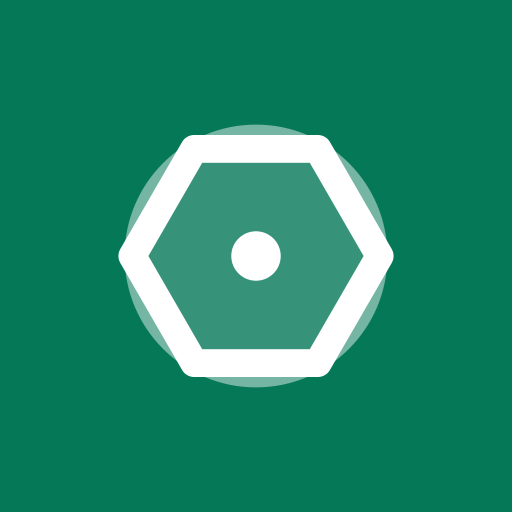
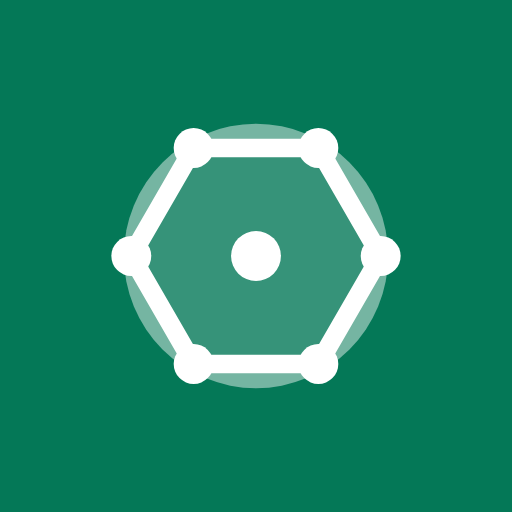
fix: 양심노트 아이콘의 육각형이 원 밖으로 삐져나와 보이던 것을 고침 (#35)
꼭짓점에 점을 찍고 선을 가늘게 해, 원 위의 여섯 점을 이은 도표
모양으로 바꿨다. 탭 아이콘, 헤더 아이콘, 홈 화면 아이콘에 같이
적용했다.

Changed region(s): [[0.2188, 0.25, 0.7812, 0.75]]

diff --git a/components/conscience-icon.tsx b/components/conscience-icon.tsx
@@ -3,8 +3,18 @@ import type { SVGProps } from "react";
 /** 24×24 좌표에서 원(중심 12,12 반지름 10)에 꼭짓점이 닿는, 가로로 누운 육각형. */
 export const CONSCIENCE_HEXAGON_PATH = "M22 12 17 20.66H7L2 12l5-8.66h10z";
 
-// 양심노트의 아이콘. 여섯 덕목이 모두 자명일 때의 도표(원 안에 꽉 찬 육각형)에
-// 가운데 점을 찍은 모양이다.
+/** 위 육각형의 꼭짓점. 도표에서 자명을 고른 점처럼 원 위에 놓인다. */
+export const CONSCIENCE_HEXAGON_VERTICES: [number, number][] = [
+  [22, 12],
+  [17, 20.66],
+  [7, 20.66],
+  [2, 12],
+  [7, 3.34],
+  [17, 3.34],
+];
+
+// 양심노트의 아이콘. 여섯 덕목이 모두 자명일 때의 도표(원 위의 여섯 점을 이은
+// 육각형)에 가운데 점을 찍은 모양이다.
 export function ConscienceIcon(props: SVGProps<SVGSVGElement>) {
   return (
     <svg
@@ -20,10 +30,14 @@ export function ConscienceIcon(props: SVGProps<SVGSVGElement>) {
       <circle cx="12" cy="12" r="10" strokeWidth="1" strokeOpacity="0.5" />
       <path
         d={CONSCIENCE_HEXAGON_PATH}
-        strokeWidth="2"
+        strokeWidth="1.5"
         fill="currentColor"
         fillOpacity="0.15"
       />
+      {/* 선 모서리 대신 점이 원 위에 놓이게 해, 원 밖으로 나온 부분이 의도한 모양으로 읽힌다. */}
+      {CONSCIENCE_HEXAGON_VERTICES.map(([x, y]) => (
+        <circle key={`${x},${y}`} cx={x} cy={y} r="1.5" fill="currentColor" stroke="none" />
+      ))}
       <circle cx="12" cy="12" r="1.75" fill="currentColor" stroke="none" />
     </svg>
   );

diff --git a/app/icon.tsx b/app/icon.tsx
@@ -1,6 +1,9 @@
 import { ImageResponse } from "next/og";
 
-import { CONSCIENCE_HEXAGON_PATH } from "@/components/conscience-icon";
+import {
+  CONSCIENCE_HEXAGON_PATH,
+  CONSCIENCE_HEXAGON_VERTICES,
+} from "@/components/conscience-icon";
 
 export const size = { width: 64, height: 64 };
 export const contentType = "image/png";
@@ -24,10 +27,13 @@ export default function Icon() {
         <path
           d={CONSCIENCE_HEXAGON_PATH}
           stroke={GREEN}
-          strokeWidth="2.25"
+          strokeWidth="1.5"
           fill={GREEN}
           fillOpacity="0.2"
         />
+        {CONSCIENCE_HEXAGON_VERTICES.map(([x, y]) => (
+          <circle key={`${x},${y}`} cx={x} cy={y} r="1.6" fill={GREEN} />
+        ))}
         <circle cx="12" cy="12" r="2" fill={GREEN} />
       </svg>
     ),
